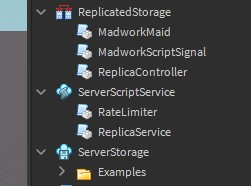
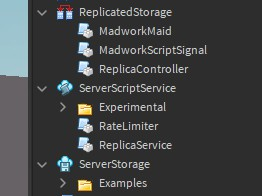
Experimental folder documentation

Changed region(s): [[0.1394, 0.0, 0.8367, 1.0], [0.0, 0.0, 0.1116, 0.4032]]

diff --git a/docs/tutorial/settingup.md b/docs/tutorial/settingup.md
@@ -1,5 +1,5 @@
 ReplicaService is a collection of module scripts. Your goal is to make your project have these files in the correct containers
-("Examples" folder is optional):
+("Experimental" and "Examples" folders are optional):
 
 ![Correct setup](../images/HowItsMade.jpg)
 
